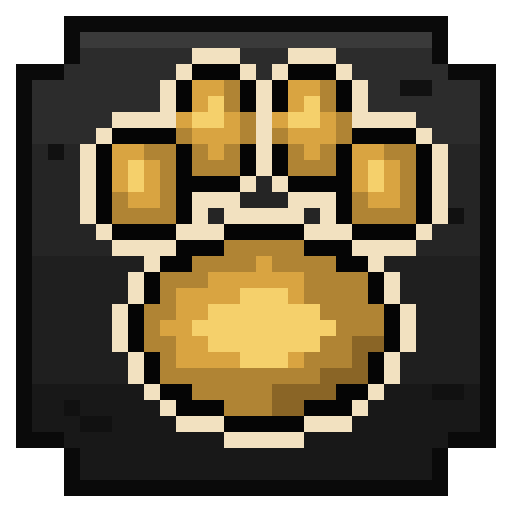
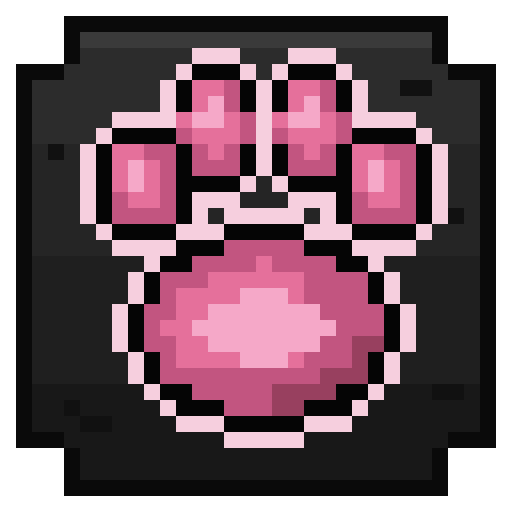
docs(design): adopt rose-with-russet signature per silo-split ruling; draw the Cultivation boundary; re-render masters

diff --git a/art/glyphs/icon.gen.py b/art/glyphs/icon.gen.py
@@ -1,7 +1,7 @@
 #!/usr/bin/env python3
 """Instinct mod icon — emits icon.glyph (32px native).
 
-A glowing wheat-amber paw print pressed into a weathered dark stone slab
+A glowing heart-rose paw print pressed into a weathered dark stone slab
 (DESIGN.md §1). Render the glyph with --scale-to 128 / 512 for the masters.
 Deterministic: geometry and shading are computed, no randomness.
 """
@@ -15,11 +15,11 @@ RING = "#050505"          # carved ring around the paw
 RIM = "#3a3a3a"           # slab top rim light
 STONE = ["#2c2c2c", "#252525", "#1f1f1f", "#181818"]  # vertical ramp
 CRACK = "#111111"
-BRIGHT = "#f5d06b"        # ripe wheat core
-AMBER = "#d9a441"         # wheat amber
-SHADE = "#b08434"
-DEEP = "#8a6526"
-GLOW = "#d9a44155"        # soft halo on the stone
+BRIGHT = "#f5a8c8"        # rose glow core
+AMBER = "#e5709b"         # heart rose
+SHADE = "#c25580"
+DEEP = "#98405f"
+GLOW = "#e5709b55"        # soft halo on the stone
 
 # paw geometry: four toe ellipses + one pad ellipse (cx, cy, rx, ry)
 TOES = [
@@ -109,7 +109,7 @@ def main():
     out = os.path.join(os.path.dirname(os.path.abspath(__file__)), "icon.glyph")
     with open(out, "w") as f:
         f.write("# Instinct mod icon — generated by icon.gen.py (edit the generator, re-run).\n")
-        f.write("# Glowing wheat-amber paw print carved into a weathered dark stone slab.\n")
+        f.write("# Glowing heart-rose paw print carved into a weathered dark stone slab.\n")
         f.write("# Masters: --scale-to 128 -> art/icon-128.png, --scale-to 512 -> art/icon-512.png\n")
         f.write(f"size: {SIZE}\n\nlegend:\n")
         for c in colors:

diff --git a/design/DESIGN.md b/design/DESIGN.md
@@ -8,7 +8,7 @@
 
 ### Narrative
 
-Instinct makes the animals you tame, breed, and keep worth the keeping: pets that act like they want to live and grow harder to kill the longer they survive, and livestock whose bloodlines reward small, well-tended pastures over mass breeding pits. The name is the thesis — animals with a mind of their own. The visual language draws from **the pasture and the pack**: hay and wheat amber, meadow green, worn wood, and the warm glow of a well-kept farmstead at dusk.
+Instinct makes the animals you tame, breed, and keep worth the keeping: pets that act like they want to live and grow harder to kill the longer they survive, and livestock whose bloodlines reward small, well-tended pastures over mass breeding pits. The name is the thesis — animals with a mind of their own. The visual language draws from **the hearth-side of husbandry**: breeding hearts, tanned hide and leather, worn wood, and lantern-lit stables at dusk.
 
 ### Tagline
 
@@ -16,34 +16,34 @@ Instinct makes the animals you tame, breed, and keep worth the keeping: pets tha
 
 ### Motif
 
-The motif is a **paw print** — the mark an animal leaves, glowing amber like a track pressed into warm earth. It appears in the logo, the mod icon, the 16×16 glyph, site headers, and flavor art. It never appears in another mod's assets, and no sibling motif (arch/compass, hourglass, treasure chest/key, market stall) is adjacent to it.
+The motif is a **paw print** — the mark an animal leaves, glowing warm rose like the breeding hearts vanilla already taught players to love. It appears in the logo, the mod icon, the 16×16 glyph, site headers, and flavor art. It never appears in another mod's assets, and no sibling motif (arch/compass, hourglass, treasure chest/key, market stall, lantern, alembic still, Cultivation's sheaf) is adjacent to it.
 
 ### Logo Description
 
-**Full Logo (`art/logo.png`):** A large glowing amber paw print — one broad pad, four toes — pressed into a weathered stone slab inside a circular leaf-rimmed medallion, over mossy dark stone brickwork. Leaf-green vines with small wheat sheaves climb the medallion's rim; a hay bale and a coiled lead rest at its base as supporting trinkets. Below, "INSTINCT" in a blocky pixel font on a stone banner, with "MINECRAFT HUSBANDRY OVERHAUL" as the subtitle line. Palette: amber glow (`#D9A441` → `#F5D06B`) on dark stone, leaf-green (`#7CB342`) only in the rim, vines, and sheaves.
+**Full Logo (`art/logo.png`):** A large glowing rose paw print — one broad pad, four toes — pressed into a weathered stone slab inside a circular russet-leather-rimmed medallion, over dark umber stone brickwork. Stitched leather straps and a coiled rope lead wrap the medallion's rim; a hay bale and a small bone rest at its base as supporting trinkets. Below, "INSTINCT" in a blocky pixel font on a stone banner, with "MINECRAFT HUSBANDRY OVERHAUL" as the subtitle line. Palette: rose glow (`#E5709B` → `#F5A8C8`) on dark stone, hide russet (`#B8622B`) only in the rim, straps, and rope.
 
-**Icon (`art/icon-128.png`):** The glowing amber paw print isolated on its stone slab — high contrast, warm radiance against a dark/transparent background. Reads cleanly at 128×128.
+**Icon (`art/icon-128.png`):** The glowing rose paw print isolated on its stone slab — high contrast, warm radiance against a dark/transparent background. Reads cleanly at 128×128.
 
-**16×16 glyph (`art/hud-icon-16.png`):** A minimal pixel paw print — one pad, four toes — in wheat amber with an ink outline. Instinct has no HUD slot (§2), so the glyph serves Jade/WTHIT and recipe-viewer contexts only.
+**16×16 glyph (`art/hud-icon-16.png`):** A minimal pixel paw print — one pad, four toes — in heart rose with an ink outline. Instinct has no HUD slot (§2), so the glyph serves Jade/WTHIT and recipe-viewer contexts only.
 
 ### Color Palette
 
 | Role | Color | Hex | Usage |
 |------|-------|-----|-------|
-| Primary surface | Dark Moss | `#141a0a` | Backgrounds, dark surfaces |
-| Secondary surface | Deep Olive | `#232e10` | Mid-tones, card backgrounds |
-| Accent 1 | Wheat Amber | `#D9A441` | Glows, highlights, headings, interactive elements |
-| Accent 2 | Leaf Green | `#7CB342` | Pasture accents, grade/quality indicators, links |
-| Bright | Ripe Wheat | `#F5D06B` | Hover states, heading gradient end, the paw's glow core |
-| Bright green | Meadow | `#9CCC65` | Leaf-green hover states, prime-grade emphasis |
+| Primary surface | Dark Umber | `#1a120a` | Backgrounds, dark surfaces |
+| Secondary surface | Deep Hide | `#2e2210` | Mid-tones, card backgrounds |
+| Accent 1 | Heart Rose | `#E5709B` | Glows, highlights, headings, interactive elements |
+| Accent 2 | Hide Russet | `#B8622B` | Leather accents, grade/quality indicators, links |
+| Bright | Rose Glow | `#F5A8C8` | Hover states, heading gradient end, the paw's glow core |
+| Bright warm | Tanned Hide | `#D98A4A` | Russet hover states, prime-grade emphasis |
 
 Shared neutrals (text and surfaces) follow the standard tokens as-is — `--color-bone`, `--color-ash`, `--color-smoke`, `--color-ink`, `--color-card`, `--color-elevated` — see concord [`design/DESIGN-SYSTEM.md`](../../concord/design/DESIGN-SYSTEM.md) §1.
 
-**Pairing-rule clearance (DESIGN-SYSTEM §2/§7):** the signature pair is the reserved Husbandry row, amber-with-leaf. Amber sits near Meridian's and Prosperity's golds and Respite's candleglow, but no pair matches: gold-with-violet reads Meridian, gold-with-cyan reads Prosperity, candle-with-indigo reads Respite, amber-with-leaf reads Instinct — and every working shade keeps clear of siblings' exact accent hexes (Ripe Wheat `#F5D06B` is deliberately not Respite's Candleglow `#F2C14E`). Leaf Green (`#7CB342`, yellow-green) is distinct from Mercantile's blue-green emeralds (`#50C878`/`#6DDB94`). No collision with Tribulation (crimson/ember), Distillation (magenta/copper), or the reserved Tempest (blue/white) and Stratum (grey/copper-orange) rows. Surfaces are a dark moss/olive tint in the standard value range, distinct from Prosperity's warm bronze (`#1a1408`/`#2e2510`).
+**Pairing-rule clearance (DESIGN-SYSTEM §2/§7):** rose-with-russet shares no accent with any member or reserved row. Heart Rose is the suite's first pink — nothing adjacent anywhere. Hide Russet's nearest neighbors are Distillation's Copper (`#E77C56`, a light salmon paired with magenta) and the reserved Stratum Copper Orange (`#E07A3F`, paired with grey); Instinct's russet is darker leather-brown and its rose partner disambiguates the pair at a glance. The old reserved Husbandry pair (Wheat Amber/Leaf Green) belongs to Cultivation, the field half of the split silo. Surfaces are a dark umber tint in the standard value range — redder than Prosperity's bronze (`#1a1408`/`#2e2510`) and warmer than Cultivation's loam (`#101a0a`/`#1c2e10`).
 
 ### Typography
 
-- **Headings:** pixel/blocky display treatment in the amber gradient (`#D9A441` → `#F5D06B`), with the shared 4s brightness pulse.
+- **Headings:** pixel/blocky display treatment in the rose gradient (`#E5709B` → `#F5A8C8`), with the shared 4s brightness pulse.
 - Everything else is the standard (DESIGN-SYSTEM §3); in-game is the vanilla font, always.
 
 ---
@@ -72,11 +72,11 @@ Asset-family judgments (the suite stance: custom where it earns its place, vanil
 
 **Full logo (Gemini):**
 
-> Pixel art logo for a Minecraft mod named "INSTINCT". A circular leaf-green-rimmed stone medallion over mossy dark stone brickwork holds a weathered stone slab bearing a large glowing paw print (one broad pad, four toes) in warm wheat-amber (#D9A441) with a bright core (#F5D06B), radiating soft light. Leaf-green (#7CB342) vines with small wheat sheaves climb the medallion's rim; a small pixel hay bale and a coiled rope lead sit at its base. Below the emblem, "INSTINCT" in a blocky pixel font on a carved stone banner, with "MINECRAFT HUSBANDRY OVERHAUL" in smaller pixel type underneath. Dark background (#0a0a0a), moody farmstead-at-dusk lighting, 16-bit pixel art style, no anti-aliasing.
+> Pixel art logo for a Minecraft mod named "INSTINCT". A circular stone medallion rimmed in stitched russet leather (#B8622B) over dark umber stone brickwork holds a weathered stone slab bearing a large glowing paw print (one broad pad, four toes) in warm heart-rose (#E5709B) with a bright core (#F5A8C8), radiating soft light. A coiled rope lead and leather straps wrap the medallion's rim; a small pixel hay bale and a bone sit at its base. Below the emblem, "INSTINCT" in a blocky pixel font on a carved stone banner, with "MINECRAFT HUSBANDRY OVERHAUL" in smaller pixel type underneath. Dark background (#0a0a0a), moody stable-at-dusk lighting, 16-bit pixel art style, no anti-aliasing.
 
 **128×128 icon (Gemini or `/glyph` ladder):**
 
-> Pixel art icon: a glowing wheat-amber (#D9A441) paw print with a bright core (#F5D06B) inlaid in a dark weathered stone slab, soft warm radiance, dark transparent-friendly background, crisp 16-bit pixel style, legible at 128×128.
+> Pixel art icon: a glowing heart-rose (#E5709B) paw print with a bright core (#F5A8C8) inlaid in a dark weathered stone slab, soft warm radiance, dark transparent-friendly background, crisp 16-bit pixel style, legible at 128×128.
 
 Pixel-art sources for the glyph, block, and item textures are `.glyph` files under `art/` — referenced in `ASSETS.md`, never duplicated here.
 
@@ -92,7 +92,7 @@ Reference and exploration images live in `art/exploration/` (generation candidat
 
 Content lives elsewhere — page copy in `site/pages/*.json` rendered by the shared Concord template at `instinct.rfizzle.com`, store copy in `site/listing-modrinth.md` / `site/listing-curseforge.md`, release notes in `changelogs/`. This section is brand only.
 
-- **Accent usage:** amber (`#D9A441` → `#F5D06B`) carries headings, hero glow, and interactive elements; leaf green (`#7CB342`) is the secondary — links, grade badges, feature-card borders. Body text and surfaces stay on the shared neutrals over the moss/olive tinted surfaces.
+- **Accent usage:** rose (`#E5709B` → `#F5A8C8`) carries headings, hero glow, and interactive elements; hide russet (`#B8622B`) is the secondary — links, grade badges, feature-card borders. Body text and surfaces stay on the shared neutrals over the umber tinted surfaces.
 - **Hero:** the full logo over the dark field, tagline beneath, version/loader badges.
 - **Gallery art direction** (1920×1080, vanilla or a light shader): a wolf pack pathing around a lava lake; a herd flocking in a neat line behind a player holding wheat; a fenced pasture with a feeding trough and hearts; the whistle moment — a dozen wolves turning at once; a downed wolf being revived with a vet kit.
 - **OG image:** full logo on Ink at 1200×630; `<title>` = `Instinct — Worth raising.`; meta description = tagline + one mechanical sentence.
@@ -101,8 +101,8 @@ Content lives elsewhere — page copy in `site/pages/*.json` rendered by the sha
 
 ## 7. Concord Context
 
-Instinct owns the husbandry silo: the animals you tame, breed, herd, and keep — their survival, lineage, and yield. It does not touch villagers (Mercantile), difficulty or hostile mobs (Tribulation), container loot (Prosperity), enchantments (Meridian), potions and remedies (Distillation), or sleep and the day-night rhythm (Respite).
+Instinct owns the animal half of the husbandry silo: the animals you tame, breed, herd, and keep — their survival, lineage, and yield. The field half — crops, soil, food values, cooking — is Cultivation's; the boundary contract is that Instinct never changes what grows or what food does when eaten, and Cultivation never changes what animals do or drop. Instinct also does not touch villagers (Mercantile), difficulty or hostile mobs (Tribulation), container loot (Prosperity), enchantments (Meridian), potions and remedies (Distillation), or sleep and the day-night rhythm (Respite).
 
-Against its siblings' signatures, amber-with-leaf reads warm and pastoral where Meridian's gold-with-violet reads arcane, Prosperity's gold-with-cyan reads treasure, Mercantile's emerald reads commerce, Tribulation's crimson reads threat, Respite's candle-with-indigo reads night, and Distillation's magenta-with-copper reads alchemy.
+Against its siblings' signatures, rose-with-russet reads hearth and hide where Cultivation's amber-with-leaf reads field and harvest, Meridian's gold-with-violet reads arcane, Prosperity's gold-with-cyan reads treasure, Mercantile's emerald reads commerce, Tribulation's crimson reads threat, Respite's candle-with-indigo reads night, and Distillation's magenta-with-copper reads alchemy. The tagline pair is deliberate kin: Cultivation's "Worth growing." and Instinct's "Worth raising." are the two halves of one husbandry promise.
 
 Suite references: concord [`VISION.md`](../../concord/VISION.md), [`design/DESIGN-SYSTEM.md`](../../concord/design/DESIGN-SYSTEM.md), [`HUD-STANDARD.md`](../../concord/HUD-STANDARD.md), [`API-STANDARD.md`](../../concord/API-STANDARD.md).

diff --git a/design/VISION.md b/design/VISION.md
@@ -53,7 +53,8 @@ Every feature above — survival instinct, veterancy, genetics, flocking, the tr
 
 ## Better together
 
-- **Mercantile** — butchers and farmers know quality when they see it: at high reputation, exclusive trades pay a premium for prime meat, leather, and wool. Never required.
+- **Mercantile** — the butcher keeps a vet's shelf: at high reputation, exclusive trades sell vet kits and pedigree treats for emeralds. Never required.
+- **Cultivation** — its harvest feeds your herd: farm-grown produce pours straight into the feeding trough, and a good field makes a good pasture. Never required.
 - **Tribulation** — a harder world forges pets faster: days survived at difficulty tier 3 or above count double toward veterancy. Never required.
 - **Prosperity** — chests far from home occasionally hold a Vet Kit, or a rare treat that guarantees the next offspring is born prime. Never required.
 - **Meridian** — a well-built blade meets a well-bred herd: its harvest enchantments and prime genetics stack on the same drops. Never required.
@@ -69,5 +70,5 @@ With no siblings installed, nothing is missing — every feature above is comple
 - **Never reach into chests.** What dungeons and structures hold is Prosperity's ground. Instinct's rewards walk on four legs.
 - **Never add enchantments or potions.** Enchanting is Meridian's; brewing is Distillation's. Instinct's remedies stay physical — a kit, a treat, a trough.
 - **No new creatures, no new dimensions.** Instinct adds no animals of its own; it works on the ones already in your world — vanilla's, and any mod's that live by the same rules.
-- **No cuisine sprawl.** No meal minigames, no recipe trees — the smoker and campfire keep their jobs.
+- **Never work the fields.** Crops, soil, cooking, and what a meal does for you are Cultivation's; Instinct's animals eat the harvest, they never change how it grows. No cuisine sprawl here — the smoker and campfire keep their jobs.
 - **No required companions, no screen clutter.** Instinct stands alone forever, and it will never take a corner of your screen.

diff --git a/design/SPEC.md b/design/SPEC.md
@@ -612,6 +612,7 @@ All sibling integrations are `modCompileOnly` + `FabricLoader.isModLoaded` guard
 - **Meridian** (none required) — grade bonus drops are added after the vanilla loot roll, so Meridian's harvest/combat enchantment effects and Instinct's bonuses compose additively with no compat code on either side.
 - **Distillation** (provider) — the revival path is open by convention: Distillation adds its brewed remedy to `#instinct:revive_items` (one tag entry in its jar) and it revives at the same `reviveHealthFraction`. Nothing ships in Instinct's jar, no API call needed.
 - **Respite** (none required) — veterancy accrual and breeding cooldowns run on world game time, so Respite's accelerated nights advance them naturally with no compat code on either side.
+- **Cultivation** (provider) — the trough is open by convention: Cultivation adds its farm produce to `#instinct:trough_food` (tag entries in its jar) and herds feed on it like any vanilla crop. Boundary contract: Instinct never changes what grows or what food does when eaten; Cultivation never changes what animals do or drop. Nothing ships in Instinct's jar.
 
 ### Mod Compatibility
 
